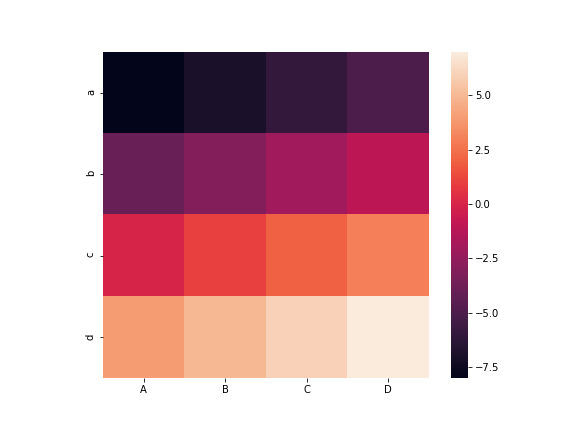
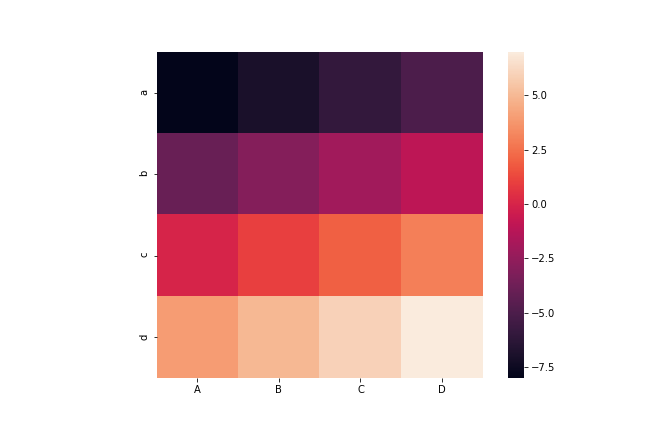
update seaborn heatmap

diff --git a/notebook/seaborn_heatmap.py b/notebook/seaborn_heatmap.py
@@ -7,8 +7,11 @@ import matplotlib as mpl
 import matplotlib.pyplot as plt
 
 list_2d = [[0, 1, 2], [3, 4, 5]]
+
+plt.figure()
 sns.heatmap(list_2d)
 plt.savefig('data/dst/seaborn_heatmap_list.png')
+plt.close('all')
 
 arr_2d = np.arange(-8, 8).reshape((4, 4))
 print(arr_2d)
@@ -32,6 +35,19 @@ print(df)
 plt.figure()
 sns.heatmap(df)
 plt.savefig('data/dst/seaborn_heatmap_dataframe.png')
+
+print(type(sns.heatmap(list_2d)))
+# <class 'matplotlib.axes._subplots.AxesSubplot'>
+
+fig = plt.figure()
+ax = fig.add_subplot(1, 1, 1)
+sns.heatmap(list_2d, ax=ax)
+fig.savefig('data/dst/seaborn_heatmap_list.png')
+
+fig, axes = plt.subplots(nrows=2, ncols=3, figsize=(8, 6))
+sns.heatmap(list_2d, ax=axes[0, 0])
+sns.heatmap(arr_2d, ax=axes[1, 2])
+fig.savefig('data/dst/seaborn_heatmap_list_sub.png')
 
 plt.figure()
 sns.heatmap(df, annot=True)
@@ -65,7 +81,7 @@ current_figsize = mpl.rcParams['figure.figsize']
 print(current_figsize)
 # [6.0, 4.0]
 
-fig, ax = plt.subplots(figsize=(8, 6)) 
+plt.figure(figsize=(9, 6)) 
 sns.heatmap(df, square=True)
 plt.savefig('data/dst/seaborn_heatmap_big.png')
 
@@ -75,7 +91,7 @@ print(current_dpi)
 
 plt.figure()
 sns.heatmap(df, square=True)
-plt.savefig('data/dst/seaborn_heatmap_big_2.png', dpi=current_dpi * 2)
+plt.savefig('data/dst/seaborn_heatmap_big_2.png', dpi=current_dpi * 1.5)
 
 df_house = pd.read_csv('data/src/house_prices_train.csv', index_col=0)
 
